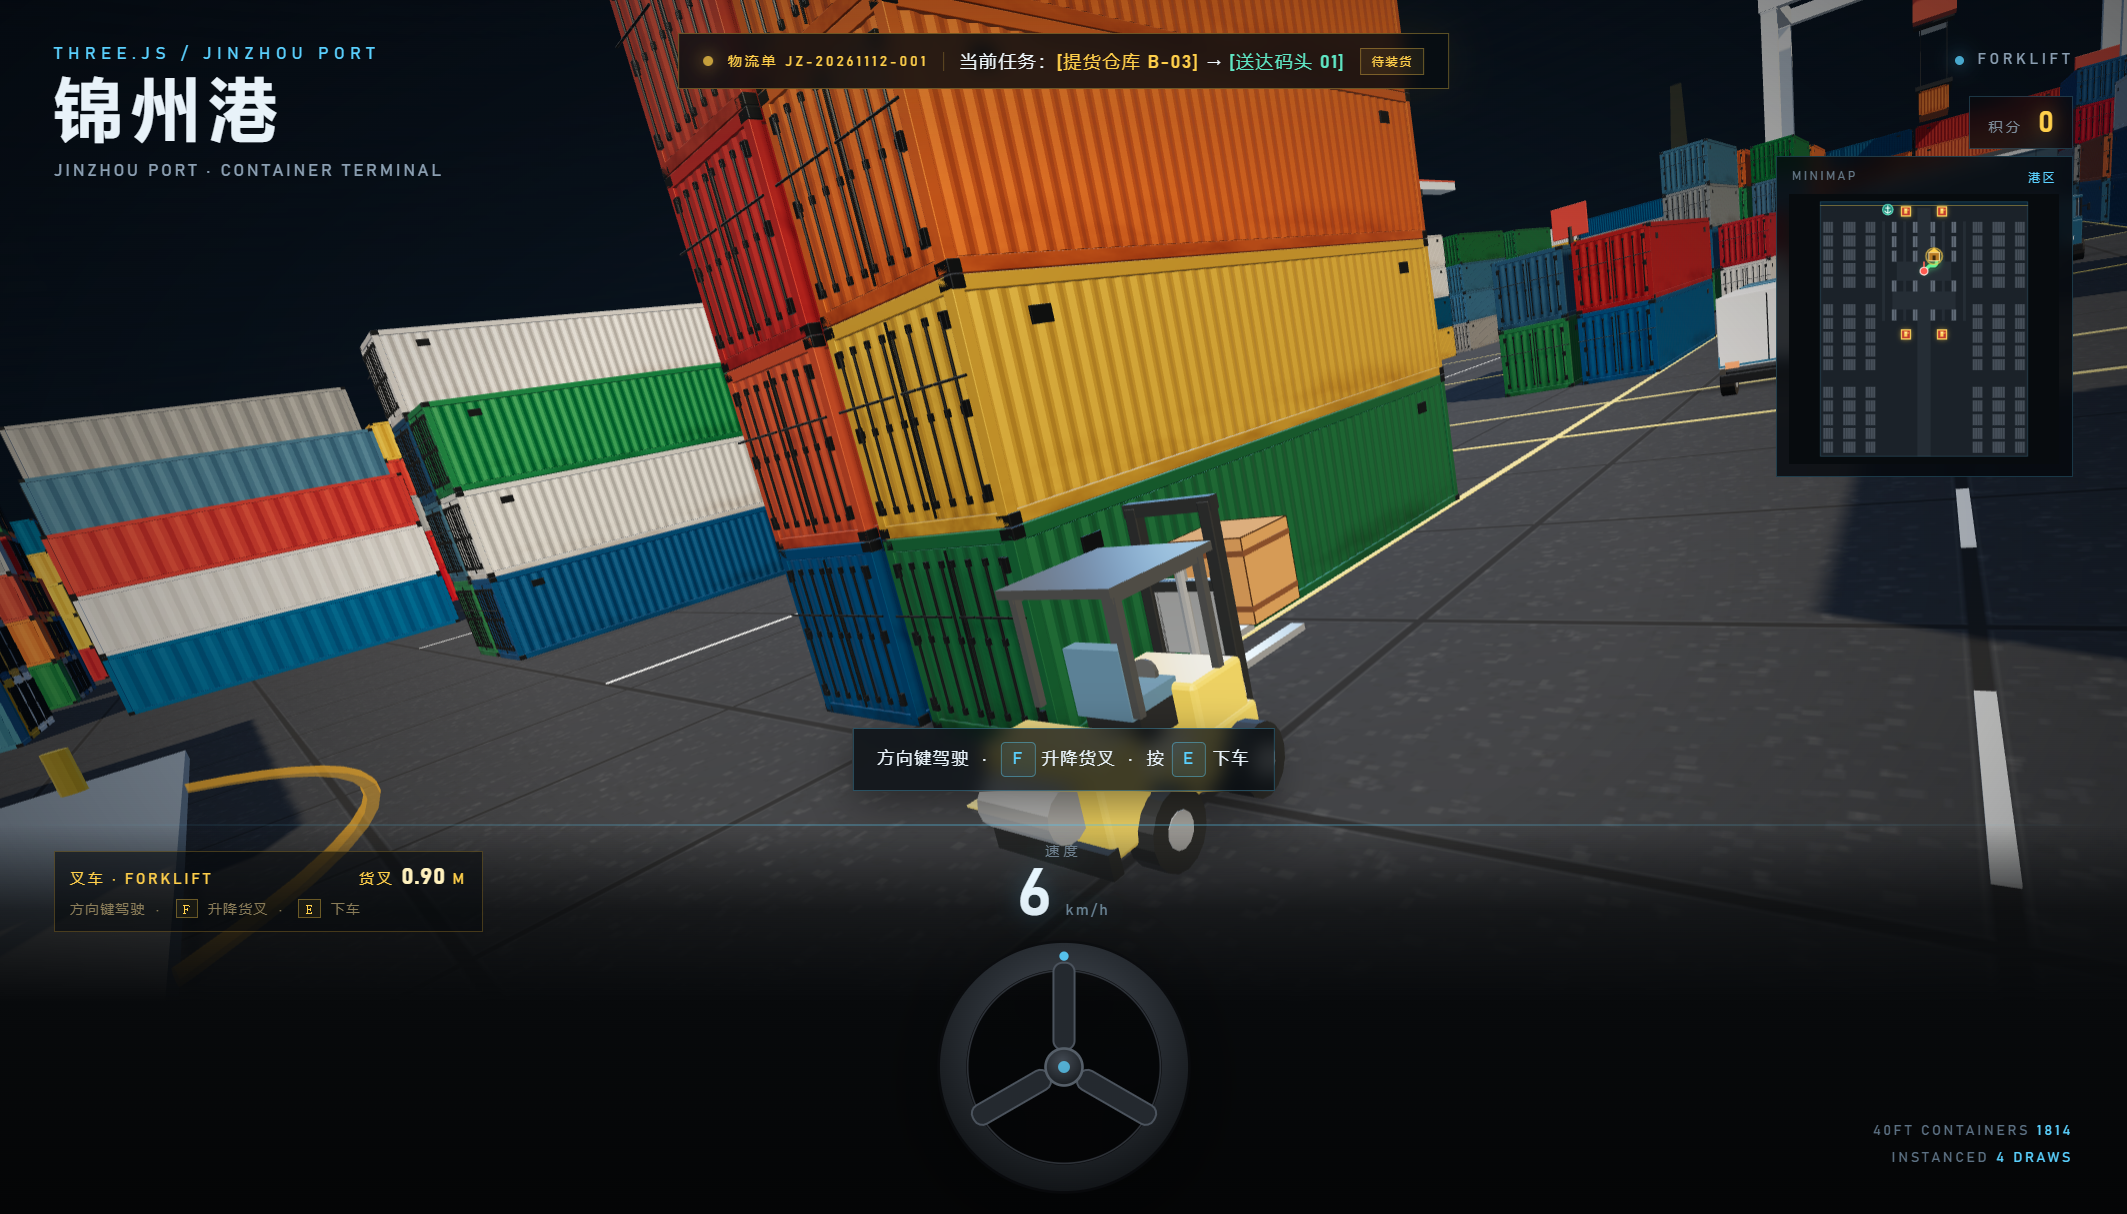
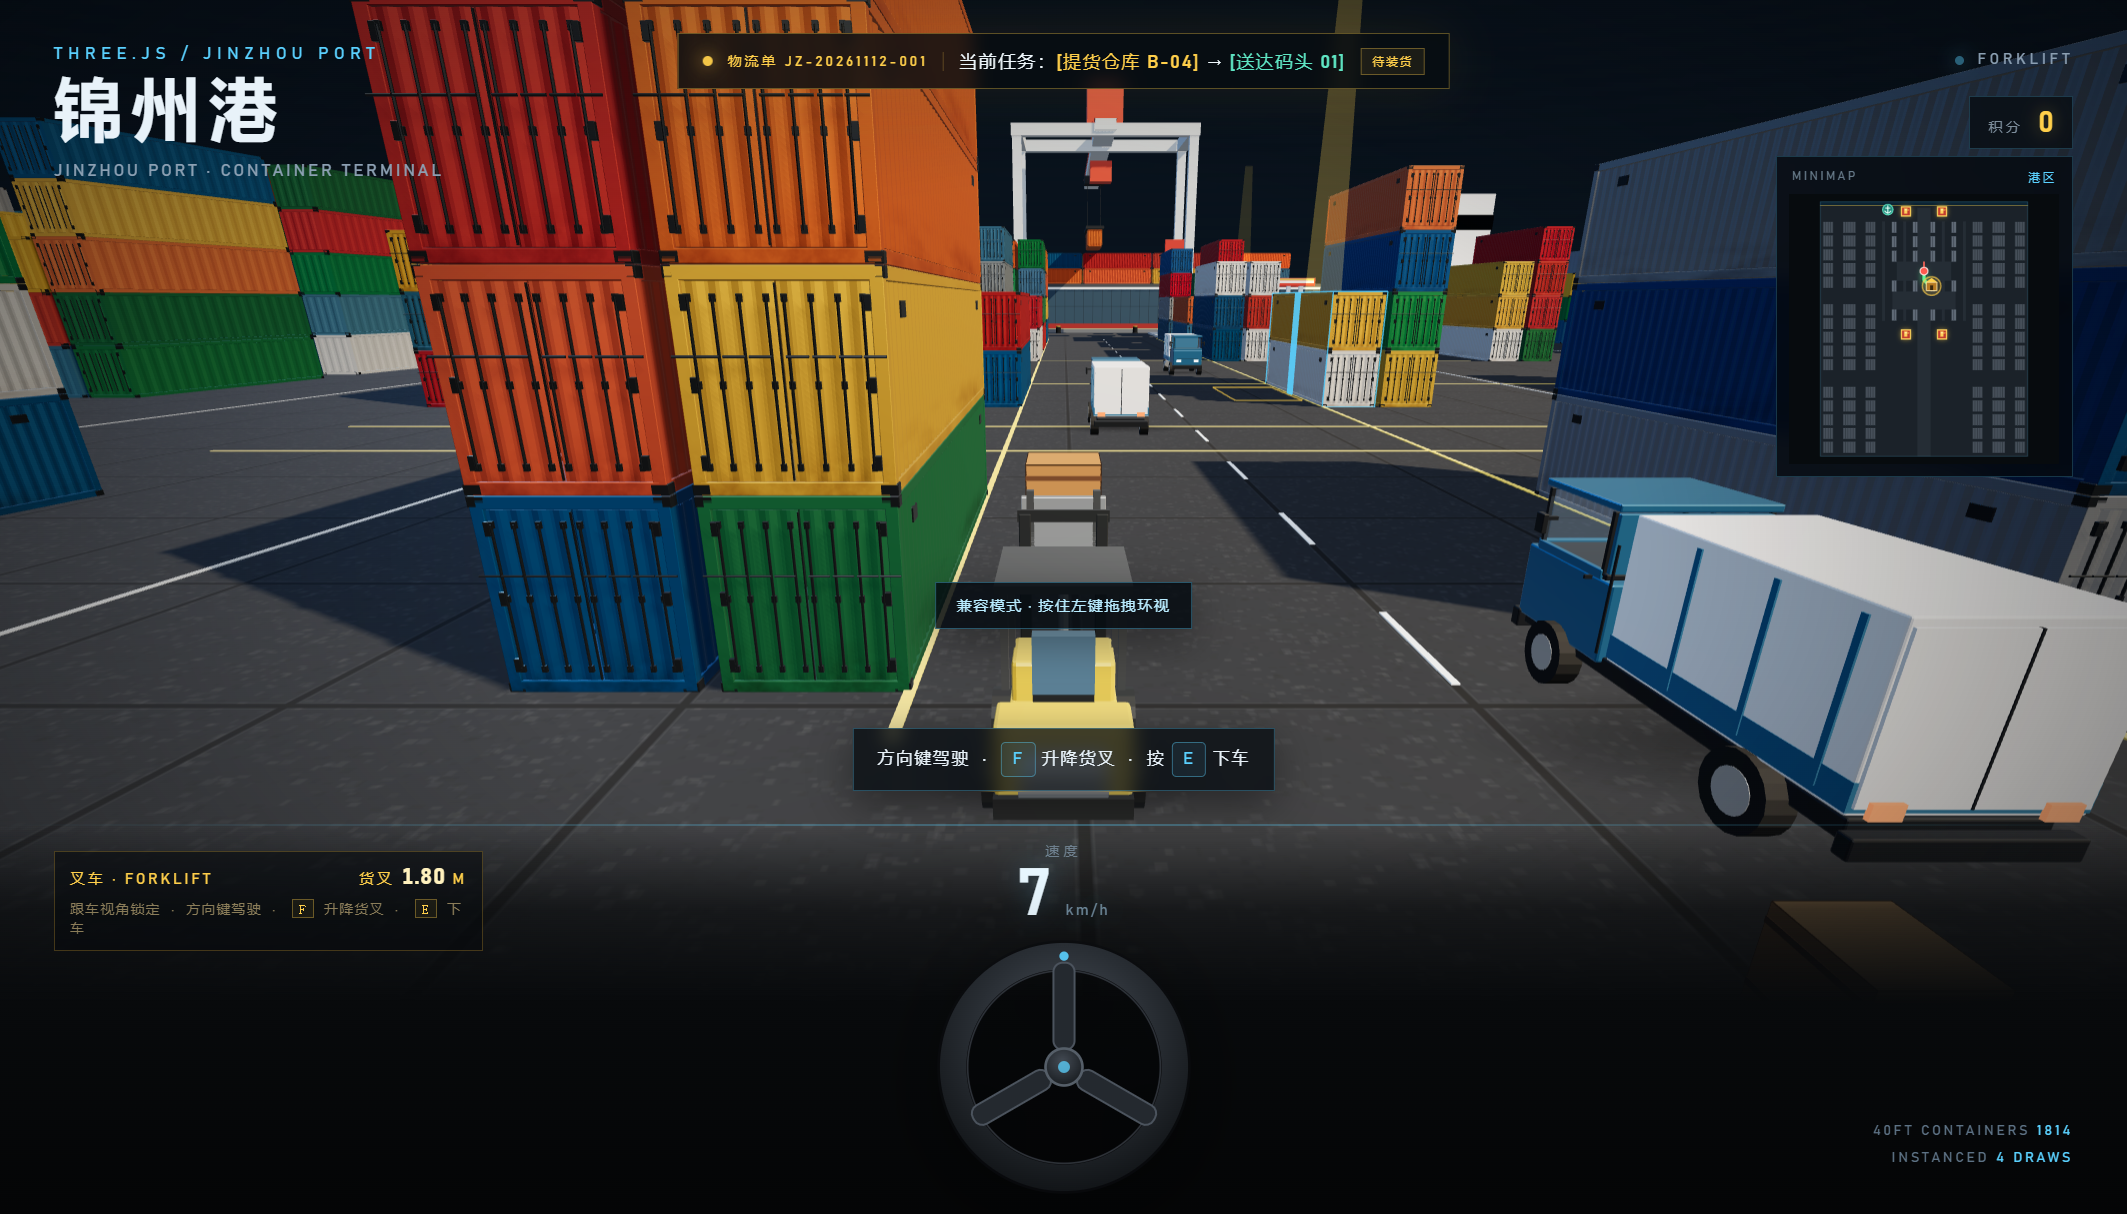
fix: lock forklift view and keep the truck centered
- replace the rear-quarter offset camera with a centered rear chase mount
- lock camera rotation while driving the forklift so mouse look cannot swing the view
- keep the forklift fixed in the center of the screen
- raise fork travel to 1.8m so the crate clears the mast and remains visible
- update forklift HUD hint and preview images

diff --git a/index.html b/index.html
@@ -1129,7 +1129,7 @@
         <span>叉车 · FORKLIFT</span>
         <span>货叉 <b id="forkLiftValue">0.00</b> m</span>
       </div>
-      <div class="forklift-tip">方向键驾驶 &nbsp;·&nbsp; <kbd>F</kbd> 升降货叉 &nbsp;·&nbsp; <kbd>E</kbd> 下车</div>
+      <div class="forklift-tip">跟车视角锁定 &nbsp;·&nbsp; 方向键驾驶 &nbsp;·&nbsp; <kbd>F</kbd> 升降货叉 &nbsp;·&nbsp; <kbd>E</kbd> 下车</div>
     </div>
 
     <div class="speed-panel">
@@ -1316,7 +1316,7 @@
     const CRATE_PICKUP_RANGE = 4.2;
     const FORK_LOCAL_Z = -1.85;
     const FORK_PLATFORM_BASE_Y = 0.36;
-    const FORK_TRAVEL = 0.9;
+    const FORK_TRAVEL = 1.8;
 
     const MOVE_SPEED = 6.2;
     const PLAYER_RADIUS = 0.42;
@@ -2384,8 +2384,8 @@
         driveGroup.add(driveModel);
 
         const driveMount = new THREE.Group();
-        driveMount.position.set(4.9, 3.7, 5.2);
-        driveMount.rotation.set(-0.32, Math.PI / 4, 0);
+        driveMount.position.set(0, 4.8, 8.2);
+        driveMount.rotation.x = -0.34;
         driveGroup.add(driveMount);
 
         const blob = new THREE.Mesh(
@@ -3978,9 +3978,9 @@
 
       const forkTarget = forklift.forkTarget;
       if (forklift.forkLift < forkTarget) {
-        forklift.forkLift = Math.min(forkTarget, forklift.forkLift + 0.58 * dt);
+        forklift.forkLift = Math.min(forkTarget, forklift.forkLift + 1.0 * dt);
       } else if (forklift.forkLift > forkTarget) {
-        forklift.forkLift = Math.max(forkTarget, forklift.forkLift - 0.58 * dt);
+        forklift.forkLift = Math.max(forkTarget, forklift.forkLift - 1.0 * dt);
       }
       if (forklift.forks) {
         forklift.forks.position.y = forklift.forksBaseY + forklift.forkLift * FORK_TRAVEL;
@@ -3994,6 +3994,10 @@
       for (const wheel of forklift.wheels) {
         wheel.rotation.x += forklift.speed * dt * 2.2;
       }
+
+      // The follow camera is deliberately locked: the forklift stays in the
+      // middle of the screen and mouse movement cannot swing the view.
+      camera.rotation.set(0, 0, 0);
     }
 
     function toggleTruck() {      if (!inputActive()) return;

diff --git a/README.md b/README.md
@@ -15,9 +15,9 @@
   - 按 **F** 后木箱在货叉上方受重力下落
   - 落稳后自动锁定到货叉，提示 `木箱已放上货叉，按 E 驾驶叉车`
 - 按 **E** 上叉车：
-  - 采用第三人称跟车视角，便于观察货叉和货物
+  - 采用第三人称锁定跟车视角：叉车始终位于屏幕中央，鼠标不会带动视角，减少晃动和眩晕
   - `↑ ↓` 驾驶，`← →` 转向
-  - 按 **F** 抬升/降下货叉，左侧 HUD 实时显示货叉高度
+  - 按 **F** 抬升/降下货叉，左侧 HUD 实时显示货叉高度（最高 1.8m）
   - 货叉抬升和叉车行驶时，木箱会跟随货叉移动
 
 ![木箱与拾取提示](preview-carry-aim.png)
